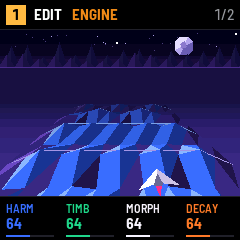
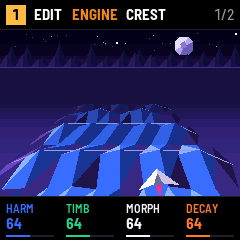
EDIT: the model's name in the header of ENGINE and SOUND, and under MODEL on SOUND and KIT

Changed region(s): [[0.525, 0.0292, 0.7, 0.0875]]

diff --git a/app/ui.c b/app/ui.c
@@ -133,7 +133,7 @@ typedef struct { q_step st; uint8_t nlocks; q_lock lk[16]; } q_clip;   /* a step
 
 /* what is on the screen, part by part: a part is drawn again when its view changes */
 typedef struct {
-    struct { int8_t track, domain, page, n, msg, pat, playing, scene, pad, ltrig, itype, punch, badge, bnum; } head;   /* badge: REC's
+    struct { int8_t track, domain, page, n, msg, pat, playing, scene, pad, ltrig, itype, punch, badge, bnum, model; } head;   /* badge: REC's
                                                                                    state, 1 GRID .. 4 ARM (0 none or ARM's blink off); bnum: NOTES' step */   /* pat: P1..P8 asked; playing: the one playing when it differs, else 0;
                                                                                    pad: a KIT's in EDIT 1..16, else 0;
                                                                                    ltrig: LFO's FREE 1 / TRIG 2, else 0; itype: the insert's, in the page name */
@@ -2153,6 +2153,11 @@ static void knob_text(int pid, int k, int v, char *b)
         while ((*b++ = *s++) != 0) {}
         return;
     }
+    if ((pid == P_SOUND || pid == P_KIT) && !k) {
+        const char *s = MODEL_NAME[v];
+        while ((*b++ = *s++) != 0) {}
+        return;
+    }
     if (pid == P_KIT && k == 1) {
         const char *s = ENGINE_NAME[v];
         while ((*b++ = *s++) != 0) {}
@@ -2254,6 +2259,8 @@ static void view_now(q_view *v)
     v->scene.pid = (int8_t)pid;
     if (pid == P_LFO)
         v->head.ltrig = (int8_t)(ui.p->sound[ui.track].ltrig + 1);
+    if (pid == P_ENGINE || pid == P_SOUND)     /* the model's name after the page's: the footer gives only SOUND's */
+        v->head.model = (int8_t)(ui.p->sound[ui.track].model + 1);
     v->foot.col = 15;
     if (fpid == P_INSERT)
         v->foot.itype = v->head.itype = ui.p->sound[ui.track].itype;
@@ -2481,6 +2488,8 @@ static void draw_head(const q_view *v)
         x = cv_text(x + 10, 7, &FONT_B, v->foot.pid == P_INSERT ? INS_NAME[v->head.itype] : PAGE[v->foot.pid].name, C_AMB);
         if (v->head.ltrig)
             x = cv_text(x + 8, 7, &FONT_B, v->head.ltrig == 2 ? "TRIG" : "FREE", C_AMB);
+        if (v->head.model)
+            x = cv_text(x + 8, 7, &FONT_B, MODEL_NAME[v->head.model - 1], C_WHITE);
         if (v->head.pad) {              /* a KIT: the pad its knobs set */
             if (v->foot.pid != P_PAD)
                 x = cv_text(x + 8, 7, &FONT_B, "PAD", C_AMB);

diff --git a/app/docs/MANUAL.md b/app/docs/MANUAL.md
@@ -112,9 +112,9 @@ left, as the screen numbers them.
 
 ### The screen
 
-![EDIT's ENGINE page on track 2: the header with 2, EDIT and ENGINE, page 1/2; the scene; HARM, TIMB, MORPH and DECAY at 64 in the footer](img/screen-anatomy.png "A page: header, scene, knobs")
+![EDIT's ENGINE page on track 2: the header with 2, EDIT, ENGINE and the model CREST, page 1/2; the scene; HARM, TIMB, MORPH and DECAY at 64 in the footer](img/screen-anatomy.png "A page: header, scene, knobs")
 
-- **Header**: the track in a box, the domain and the page (on SEQ, the pattern: `P1 > P2` while the next one waits
+- **Header**: the track in a box, the domain and the page (on ENGINE and SOUND, the model too; on SEQ, the pattern: `P1 > P2` while the next one waits
   for the end of the loop), the page's number, and REC's state when it is armed (GRID, NOTES, LIVE; ARM and LISTEN
   blink).
 - **Scene**: what the page sets, animated. It reacts to every knob of the page and to each note played, in pink.
@@ -225,7 +225,7 @@ browses the models from any EDIT page.
 | Page | K1 | K2 | K3 | K4 |
 | --- | --- | --- | --- | --- |
 | ENGINE | HARM, 0–127 | TIMB, 0–127 | MORPH, 0–127 | DECAY, 0–127 |
-| SOUND | MODEL, 0–24 | TUNE, −24 to +24 semitones | GLIDE, 0–127 | POLY, 1–4 voices |
+| SOUND | MODEL, by name | TUNE, −24 to +24 semitones | GLIDE, 0–127 | POLY, 1–4 voices |
 
 - **HARM, TIMB, MORPH** do something different on each model: the table below says what.
 - **DECAY** sets how long a note rings after its gate closes, and the length of the model's own envelope on the models
@@ -234,14 +234,14 @@ browses the models from any EDIT page.
 - **POLY** is how many notes the track plays at once. The four tracks share six voices; when they are all busy, a
   new note takes the oldest one.
 
-The footer shows the model's number. Its name shows on HOME's TRACKS page and on the ENV, LFO, ARP and FX pages.
+The model's name shows in the header of ENGINE and SOUND, and under MODEL in SOUND's footer.
 
-![EDIT's SOUND page: MODEL 8, TUNE 0, GLIDE 0, POLY 1](img/sound-sound.png "SOUND")
+![EDIT's SOUND page: CREST in the header, MODEL CREST, TUNE 0, GLIDE 0, POLY 1](img/sound-sound.png "SOUND")
 
 ### Models
 
-The models are Plaits' 24 synthesis models, in Plaits' order, under QUARTZ's own names. Each family has its own
-scene.
+The models are Plaits' 24 synthesis models, in Plaits' order, under QUARTZ's own names. PRESET goes through them in
+the order of the table. Each family has its own scene.
 
 | # | Name | Sound | HARM | TIMB | MORPH | Plaits model |
 | --- | --- | --- | --- | --- | --- | --- |
@@ -311,7 +311,7 @@ its own tuning and settings, and a kit plays up to three pads at once. With KIT,
 | Page | K1 | K2 | K3 | K4 |
 | --- | --- | --- | --- | --- |
 | PAD | TUNE, −24 to +24 | HARM, 0–127 | TIMB, 0–127 | DECAY, 0–127 |
-| KIT | MODEL, 0–24 | ENGINE, BD SN HH | LEVEL, 0–127 | — |
+| KIT | MODEL, by name | ENGINE, BD SN HH | LEVEL, 0–127 | — |
 
 The knobs set the last pad played, named in the header (`PAD 1`). In EDIT, hold a pad: K1–K4 set that pad and PRESET
 changes its engine. KIT's scene is the 16 pads, each with its engine, the one the knobs set lit.
